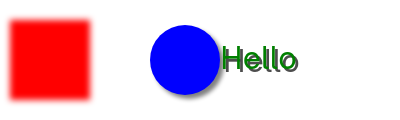
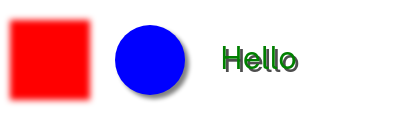
fix: subtract radius from circle x position

Changed region(s): [[0.27, 0.2, 0.57, 0.85]]

diff --git a/scripts/generate-readme-assets.tsx b/scripts/generate-readme-assets.tsx
@@ -305,7 +305,7 @@ async function main() {
 	await saveExample('example-filter', 400, 120, (
 		<>
 			<Rect x={10} y={20} width={80} height={80} fill="red" filter="blur(3px)" />
-			<Circle x={150} y={25} radius={35} fill="blue" filter="drop-shadow(4px 4px 4px rgba(0,0,0,0.5))" />
+			<Circle x={115} y={25} radius={35} fill="blue" filter="drop-shadow(4px 4px 4px rgba(0,0,0,0.5))" />
 			<Text x={220} y={44} fontSize={32} fontFamily="Geist" fill="green" filter="drop-shadow(3px 3px 0 rgba(0,0,0,0.7))">Hello</Text>
 		</>
 	));

diff --git a/README.md b/README.md
@@ -213,7 +213,7 @@ All entities support the `filter` prop, which maps directly to [`CanvasRendering
 import { Rect, Circle, Text } from 'react-tela';
 
 <Rect x={10} y={20} width={80} height={80} fill="red" filter="blur(3px)" />
-<Circle x={150} y={25} radius={35} fill="blue" filter="drop-shadow(4px 4px 4px black)" />
+<Circle x={115} y={25} radius={35} fill="blue" filter="drop-shadow(4px 4px 4px black)" />
 <Text x={220} y={44} fill="green" fontSize={32} filter="drop-shadow(3px 3px 0 rgba(0,0,0,0.7))">
   Hello
 </Text>
